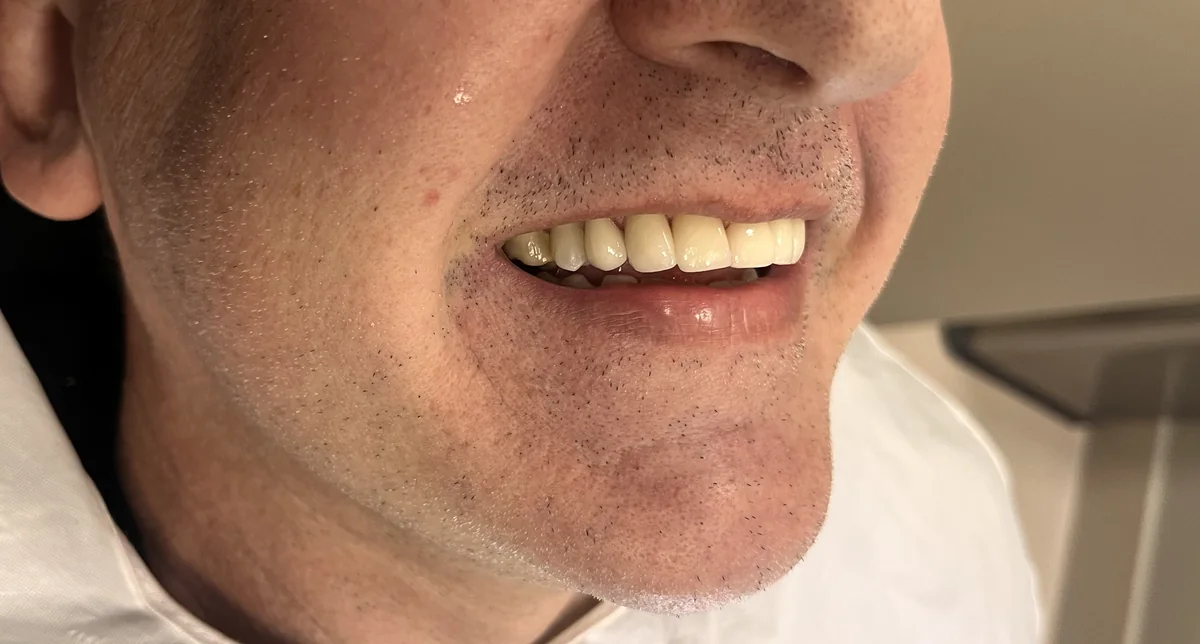
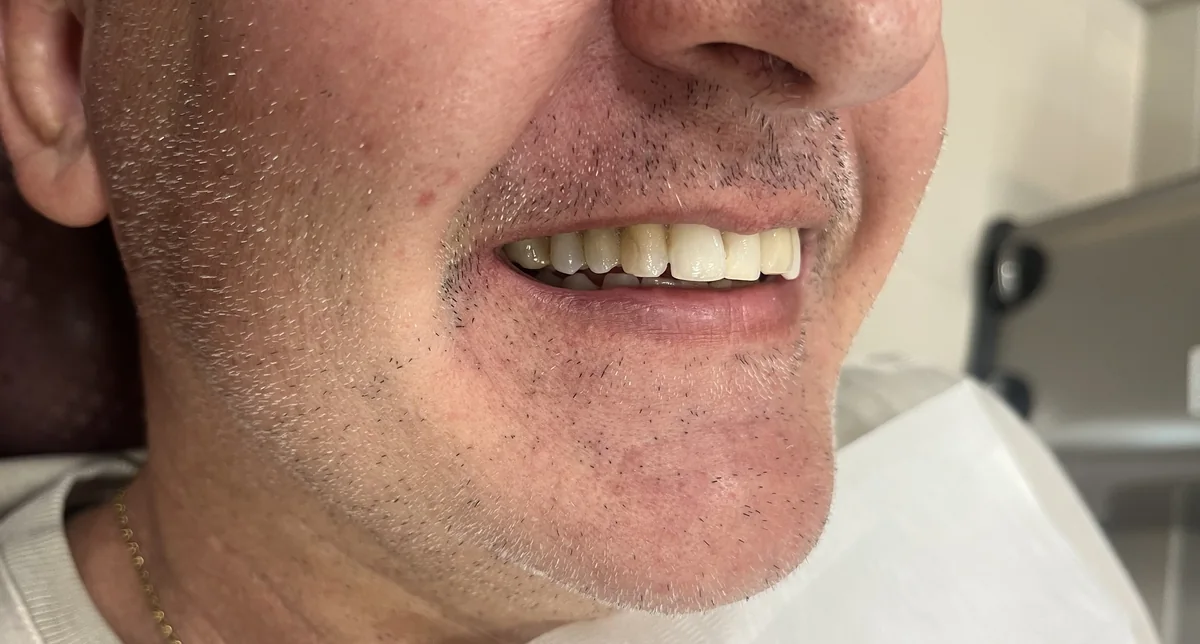
Caso 8, foto 2: antes e depois estavam invertidos
Volta a ordem da segunda foto do caso 8. Cache v7.

diff --git a/sw.js b/sw.js
@@ -2,51 +2,51 @@
    Guarda a página e as fotos no aparelho para abrir mesmo sem internet.
    Ao trocar ou incluir fotos, aumente o número da versão abaixo,
    o ?v= das fotos em assets/js/app.js e acrescente os arquivos novos na lista. */
-const VERSION = 'resultados-v6';
+const VERSION = 'resultados-v7';
 const FILES = [
   './',
   'index.html',
   'manifest.webmanifest',
   'assets/css/style.css?v=2',
-  'assets/js/app.js?v=6',
+  'assets/js/app.js?v=7',
   'assets/brand/vetor-lockup-horizontal-branco.svg',
   'assets/brand/vetor-simbolo-rosa.svg',
   'icons/apple-touch-icon.png',
   'icons/icon-192.png',
-  'assets/img/caso-01-2-antes.webp?v=6',
-  'assets/img/caso-01-2-depois.webp?v=6',
-  'assets/img/caso-01-antes.webp?v=6',
-  'assets/img/caso-01-depois.webp?v=6',
-  'assets/img/caso-02-2-antes.webp?v=6',
-  'assets/img/caso-02-2-depois.webp?v=6',
-  'assets/img/caso-02-antes.webp?v=6',
-  'assets/img/caso-02-depois.webp?v=6',
-  'assets/img/caso-03-2-antes.webp?v=6',
-  'assets/img/caso-03-2-depois.webp?v=6',
-  'assets/img/caso-03-antes.webp?v=6',
-  'assets/img/caso-03-depois.webp?v=6',
-  'assets/img/caso-04-antes.webp?v=6',
-  'assets/img/caso-04-depois.webp?v=6',
-  'assets/img/caso-06-antes.webp?v=6',
-  'assets/img/caso-06-depois.webp?v=6',
-  'assets/img/caso-07-antes.webp?v=6',
-  'assets/img/caso-07-depois.webp?v=6',
-  'assets/img/caso-08-2-antes.webp?v=6',
-  'assets/img/caso-08-2-depois.webp?v=6',
-  'assets/img/caso-08-antes.webp?v=6',
-  'assets/img/caso-08-depois.webp?v=6',
-  'assets/img/caso-09-antes.webp?v=6',
-  'assets/img/caso-09-depois.webp?v=6',
-  'assets/img/caso-10-2-antes.webp?v=6',
-  'assets/img/caso-10-2-depois.webp?v=6',
-  'assets/img/caso-10-antes.webp?v=6',
-  'assets/img/caso-10-depois.webp?v=6',
-  'assets/img/caso-11-2-antes.webp?v=6',
-  'assets/img/caso-11-2-depois.webp?v=6',
-  'assets/img/caso-11-antes.webp?v=6',
-  'assets/img/caso-11-depois.webp?v=6',
-  'assets/img/caso-12-antes.webp?v=6',
-  'assets/img/caso-12-depois.webp?v=6'
+  'assets/img/caso-01-2-antes.webp?v=7',
+  'assets/img/caso-01-2-depois.webp?v=7',
+  'assets/img/caso-01-antes.webp?v=7',
+  'assets/img/caso-01-depois.webp?v=7',
+  'assets/img/caso-02-2-antes.webp?v=7',
+  'assets/img/caso-02-2-depois.webp?v=7',
+  'assets/img/caso-02-antes.webp?v=7',
+  'assets/img/caso-02-depois.webp?v=7',
+  'assets/img/caso-03-2-antes.webp?v=7',
+  'assets/img/caso-03-2-depois.webp?v=7',
+  'assets/img/caso-03-antes.webp?v=7',
+  'assets/img/caso-03-depois.webp?v=7',
+  'assets/img/caso-04-antes.webp?v=7',
+  'assets/img/caso-04-depois.webp?v=7',
+  'assets/img/caso-06-antes.webp?v=7',
+  'assets/img/caso-06-depois.webp?v=7',
+  'assets/img/caso-07-antes.webp?v=7',
+  'assets/img/caso-07-depois.webp?v=7',
+  'assets/img/caso-08-2-antes.webp?v=7',
+  'assets/img/caso-08-2-depois.webp?v=7',
+  'assets/img/caso-08-antes.webp?v=7',
+  'assets/img/caso-08-depois.webp?v=7',
+  'assets/img/caso-09-antes.webp?v=7',
+  'assets/img/caso-09-depois.webp?v=7',
+  'assets/img/caso-10-2-antes.webp?v=7',
+  'assets/img/caso-10-2-depois.webp?v=7',
+  'assets/img/caso-10-antes.webp?v=7',
+  'assets/img/caso-10-depois.webp?v=7',
+  'assets/img/caso-11-2-antes.webp?v=7',
+  'assets/img/caso-11-2-depois.webp?v=7',
+  'assets/img/caso-11-antes.webp?v=7',
+  'assets/img/caso-11-depois.webp?v=7',
+  'assets/img/caso-12-antes.webp?v=7',
+  'assets/img/caso-12-depois.webp?v=7'
 ];
 
 self.addEventListener('install', e => {

diff --git a/assets/js/app.js b/assets/js/app.js
@@ -51,7 +51,7 @@
       text: 'Os dentes da frente ganharam facetas com forma e tamanho redesenhados, deixando o sorriso mais uniforme e equilibrado.',
       views: [{ src: 'caso-09', w: 1200, h: 660 }] }
   ];
-  const img = (v, lado) => `assets/img/${v.src}-${lado}.webp?v=6`;
+  const img = (v, lado) => `assets/img/${v.src}-${lado}.webp?v=7`;
 
   const ba = $('#ba');
   const stage = $('#stage');

diff --git a/index.html b/index.html
@@ -81,6 +81,6 @@
   </div>
 </main>
 
-<script src="assets/js/app.js?v=6"></script>
+<script src="assets/js/app.js?v=7"></script>
 </body>
 </html>
